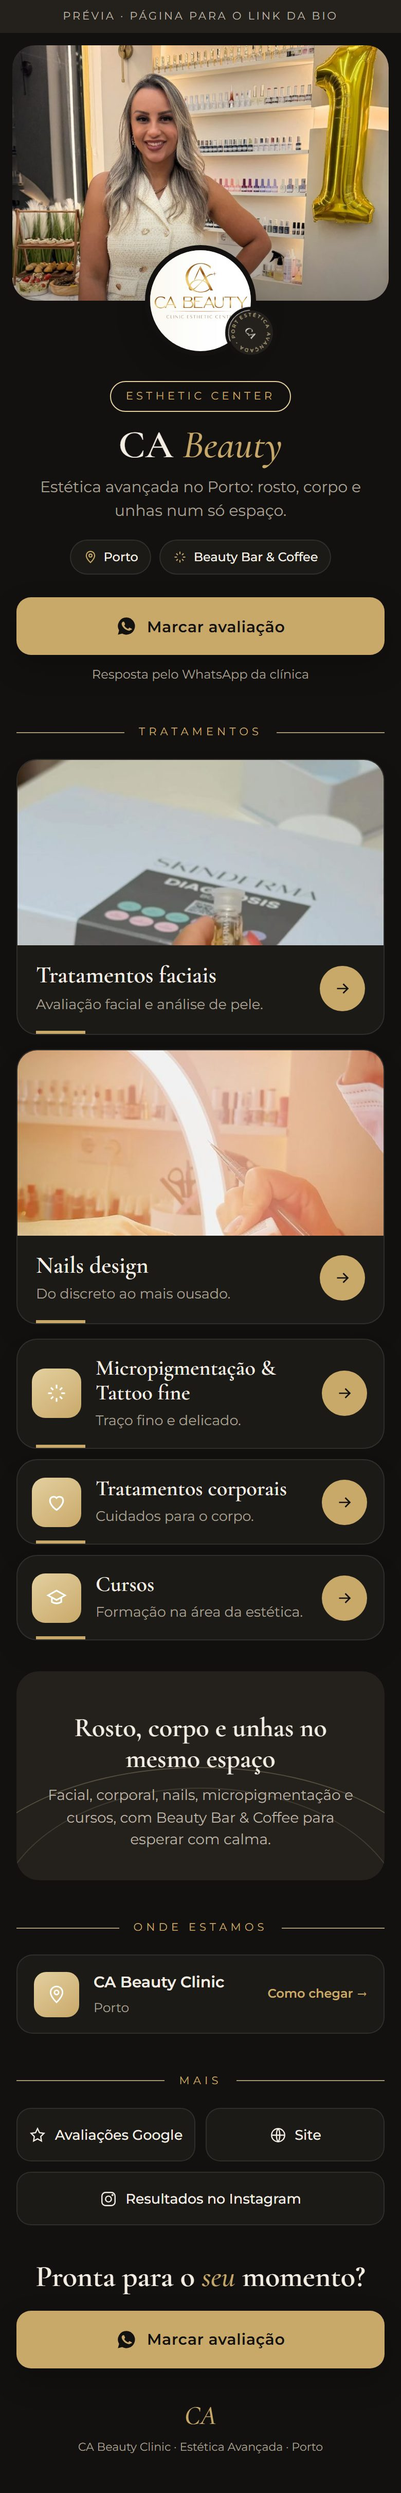
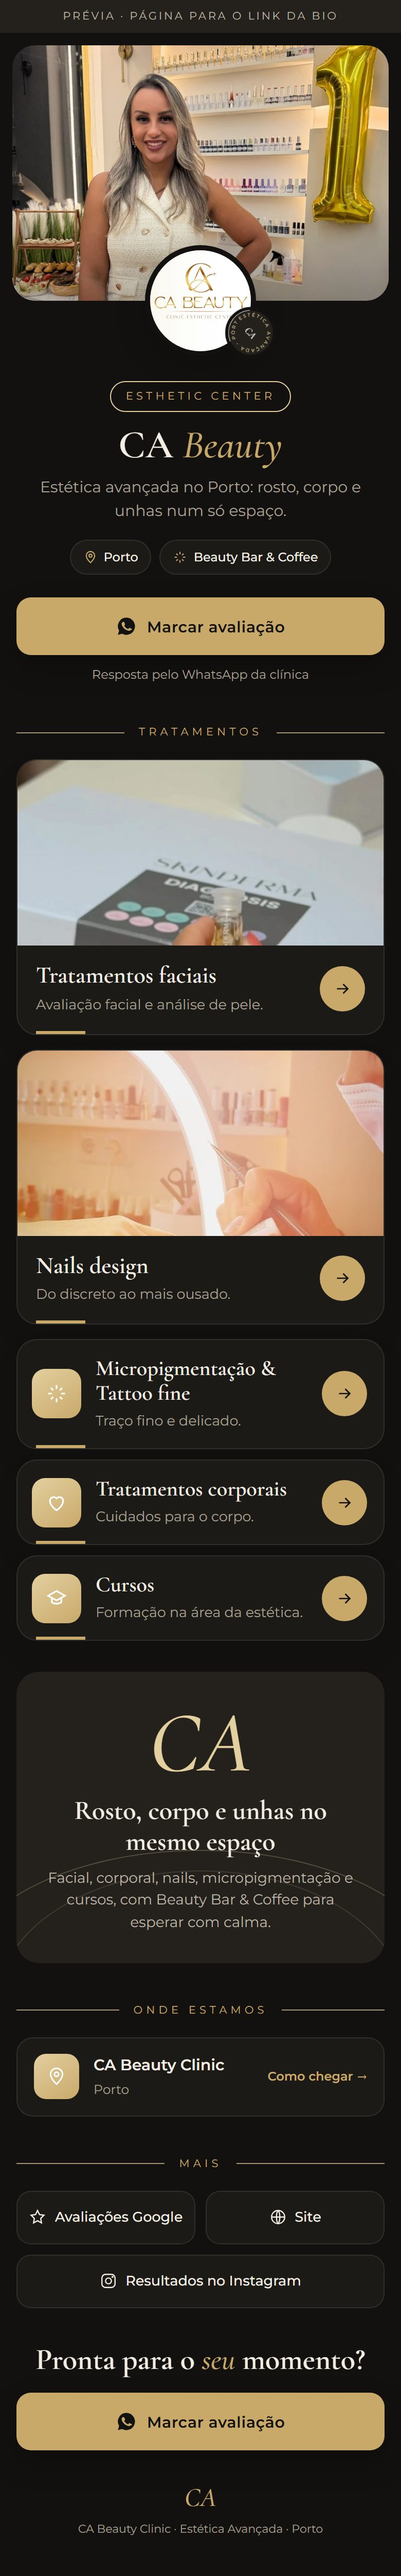
Bio: bloco de destaque com palavra grande

diff --git a/bio/lorraineportugal/index.html b/bio/lorraineportugal/index.html
@@ -55,7 +55,7 @@ h1 em{font-style:italic;font-weight:500;color:var(--acento)}
 .seta{flex:none;width:44px;height:44px;border-radius:50%;background:var(--btn);display:grid;place-items:center;margin-left:auto}
 .seta svg{width:18px;height:18px;stroke:var(--btn-txt);fill:none;stroke-width:1.8}
 .historia{margin:30px 16px 0;border-radius:22px;background:var(--escuro);color:var(--escuro-txt);padding:30px 24px 28px;position:relative;overflow:hidden;text-align:center}
-.historia .ano{font:italic 500 84px/.95 'Bodoni Moda',serif;color:var(--acento-2)}
+.historia .ano{font:italic 500 62px/.95 'Bodoni Moda',serif;color:var(--acento-2)}
 .historia h2{font:600 26px/1.15 'Bodoni Moda',serif;margin-top:10px}
 .historia p{font-size:14px;color:var(--escuro-suave);margin-top:10px}
 .historia .arco{position:absolute;inset:auto -60px -150px -60px;height:260px;border:1px solid var(--acento-2);opacity:.25;border-radius:50%}
@@ -95,7 +95,7 @@ footer .mono{font:italic 500 26px 'Bodoni Moda',serif;color:var(--acento);displa
 <a class="trat compacto" href="https://wa.me/5511916755953?text=Ol%C3%A1%2C%20Dra.%20Lorraine!%20Quero%20falar%20sobre%20partilha%20de%20bens." target="_blank" rel="noopener"><span class="tile"><svg viewBox="0 0 24 24"><path d="M12 3l7 3v6c0 4.5-3 7.8-7 9-4-1.2-7-4.5-7-9V6z"/><path d="M9 12l2 2 4-4"/></svg></span><div><h3>Partilha de bens</h3><p>Proteger o patrimônio que é seu.</p></div><span class="seta"><svg viewBox="0 0 24 24"><path d="M5 12h14M13 6l6 6-6 6"/></svg></span></a>
 <a class="trat compacto" href="https://wa.me/5511916755953?text=Ol%C3%A1%2C%20Dra.%20Lorraine!%20Quero%20falar%20sobre%20pens%C3%A3o." target="_blank" rel="noopener"><span class="tile"><svg viewBox="0 0 24 24"><path d="M12 20s-7-4.4-7-10a4 4 0 0 1 7-2.6A4 4 0 0 1 19 10c0 5.6-7 10-7 10z"/></svg></span><div><h3>Pensão e alimentos</h3><p>Inclusive alimentos gravídicos.</p></div><span class="seta"><svg viewBox="0 0 24 24"><path d="M5 12h14M13 6l6 6-6 6"/></svg></span></a>
 <a class="trat compacto" href="https://wa.me/5511916755953?text=Ol%C3%A1%2C%20Dra.%20Lorraine!%20Quero%20falar%20sobre%20a%20guarda%20dos%20meus%20filhos." target="_blank" rel="noopener"><span class="tile"><svg viewBox="0 0 24 24"><circle cx="9" cy="8" r="3.5"/><path d="M2.5 20c.8-3.6 3.4-5.5 6.5-5.5s5.7 1.9 6.5 5.5"/><path d="M16 4.5a3.5 3.5 0 0 1 0 7M18 14.8c1.9.6 3.1 2.3 3.5 5.2"/></svg></span><div><h3>Proteção dos filhos</h3><p>Guarda e convivência.</p></div><span class="seta"><svg viewBox="0 0 24 24"><path d="M5 12h14M13 6l6 6-6 6"/></svg></span></a></div>
-  <div class="historia"><h2>Divórcio e partilha para mulheres</h2><p>Para quem quer se separar protegendo os filhos e o patrimônio, inclusive quando depende financeiramente do parceiro.</p><div class="arco"></div><div class="arco b"></div></div>
+  <div class="historia"><div class="ano">Divórcio</div><h2>e partilha para mulheres</h2><p>Para quem quer se separar protegendo os filhos e o patrimônio, inclusive quando depende financeiramente do parceiro.</p><div class="arco"></div><div class="arco b"></div></div>
   
   <div class="sep">Mais</div><div class="bloco links"><a class="lk larga" href="https://www.instagram.com/lorraineportugal" target="_blank" rel="noopener"><svg viewBox="0 0 24 24"><rect x="3" y="3" width="18" height="18" rx="5"/><circle cx="12" cy="12" r="4"/><circle cx="17.5" cy="6.5" r=".6"/></svg>Conteúdos no Instagram</a></div>
   <div class="final"><h2>Seu recomeço, <em>protegido</em></h2><a class="btn btn-pri" href="https://wa.me/5511916755953?text=Ol%C3%A1%2C%20Dra.%20Lorraine!%20Gostaria%20de%20agendar%20uma%20consulta." target="_blank" rel="noopener"><svg viewBox="0 0 24 24" class="wa"><path d="M12 2a10 10 0 0 0-8.6 15.1L2 22l5-1.3A10 10 0 1 0 12 2zm5.3 14.1c-.2.6-1.3 1.2-1.8 1.2-.5.1-1 .1-3.3-.8-2.8-1.1-4.5-3.9-4.7-4.1-.1-.2-1.1-1.5-1.1-2.9s.7-2 1-2.3c.3-.3.6-.3.8-.3h.6c.2 0 .4 0 .6.5l.9 2.1c.1.2.1.4 0 .5l-.3.5-.4.5c-.1.1-.3.3-.1.6.2.3.8 1.3 1.7 2.1 1.2 1 2.1 1.3 2.4 1.5.3.1.5.1.6-.1l.9-1.1c.2-.3.4-.2.6-.1l2 1c.3.1.5.2.5.3.1.2.1.7-.1 1.4z"/></svg>Agendar consulta</a></div>

diff --git a/bio/beu-clinicportugal/index.html b/bio/beu-clinicportugal/index.html
@@ -55,7 +55,7 @@ h1 em{font-style:italic;font-weight:500;color:var(--acento)}
 .seta{flex:none;width:44px;height:44px;border-radius:50%;background:var(--btn);display:grid;place-items:center;margin-left:auto}
 .seta svg{width:18px;height:18px;stroke:var(--btn-txt);fill:none;stroke-width:1.8}
 .historia{margin:30px 16px 0;border-radius:22px;background:var(--escuro);color:var(--escuro-txt);padding:30px 24px 28px;position:relative;overflow:hidden;text-align:center}
-.historia .ano{font:italic 500 84px/.95 'DM Serif Display',serif;color:var(--acento-2)}
+.historia .ano{font:italic 500 72px/.95 'DM Serif Display',serif;color:var(--acento-2)}
 .historia h2{font:600 26px/1.15 'DM Serif Display',serif;margin-top:10px}
 .historia p{font-size:14px;color:var(--escuro-suave);margin-top:10px}
 .historia .arco{position:absolute;inset:auto -60px -150px -60px;height:260px;border:1px solid var(--acento-2);opacity:.25;border-radius:50%}
@@ -94,7 +94,7 @@ footer .mono{font:italic 500 26px 'DM Serif Display',serif;color:var(--acento);d
   <div class="bloco"><a class="trat" href="https://wa.me/351964578844?text=Ol%C3%A1!%20Gostaria%20de%20saber%20mais%20sobre%20Botox." target="_blank" rel="noopener"><div class="foto"><img src="img/post3.jpg" alt="Botox" style="object-position:center 30%"></div><div class="txt"><div><h3>Botox</h3><p>Expressão mais leve e natural.</p></div><span class="seta"><svg viewBox="0 0 24 24"><path d="M5 12h14M13 6l6 6-6 6"/></svg></span></div></a>
 <a class="trat" href="https://wa.me/351964578844?text=Ol%C3%A1!%20Gostaria%20de%20saber%20mais%20sobre%20preenchimentos." target="_blank" rel="noopener"><div class="foto"><img src="img/post10.jpg" alt="Preenchimentos" style="object-position:center 25%"></div><div class="txt"><div><h3>Preenchimentos</h3><p>Volume e contorno com equilíbrio.</p></div><span class="seta"><svg viewBox="0 0 24 24"><path d="M5 12h14M13 6l6 6-6 6"/></svg></span></div></a>
 <a class="trat" href="https://wa.me/351964578844?text=Ol%C3%A1!%20Gostaria%20de%20saber%20mais%20sobre%20os%20tratamentos%20faciais." target="_blank" rel="noopener"><div class="foto"><img src="img/post12.jpg" alt="Tratamentos faciais" style="object-position:center 35%"></div><div class="txt"><div><h3>Tratamentos faciais</h3><p>Luminosidade e hidratação da pele.</p></div><span class="seta"><svg viewBox="0 0 24 24"><path d="M5 12h14M13 6l6 6-6 6"/></svg></span></div></a></div>
-  <div class="historia"><div class="ano">2</div><h2>Clínicas, no Porto e em Lisboa</h2><p>Cada tratamento começa com uma avaliação médica do seu rosto.</p><div class="arco"></div><div class="arco b"></div></div>
+  <div class="historia"><div class="ano">Be'U</div><h2>Duas clínicas, no Porto e em Lisboa</h2><p>Cada tratamento começa com uma avaliação médica do seu rosto.</p><div class="arco"></div><div class="arco b"></div></div>
   <div class="sep">Onde estamos</div><div class="bloco"><a class="uni" href="https://www.google.com/maps/search/Be'U%20Clinic%20Rua%20de%20Costa%20Cabral%20501%20Porto" target="_blank" rel="noopener"><span class="ic"><svg viewBox="0 0 24 24"><path d="M12 21s-7-6.2-7-11.5A7 7 0 0 1 19 9.5C19 14.8 12 21 12 21z"/><circle cx="12" cy="9.5" r="2.5"/></svg></span><div><b>Porto</b><span>Rua de Costa Cabral, 501</span></div><span class="ir">Como chegar →</span></a>
 <a class="uni" href="https://www.google.com/maps/search/Be'U%20Clinic%20Lisboa" target="_blank" rel="noopener"><span class="ic"><svg viewBox="0 0 24 24"><path d="M12 21s-7-6.2-7-11.5A7 7 0 0 1 19 9.5C19 14.8 12 21 12 21z"/><circle cx="12" cy="9.5" r="2.5"/></svg></span><div><b>Lisboa</b><span>Be'U Clinic</span></div><span class="ir">Como chegar →</span></a></div>
   <div class="sep">Mais</div><div class="bloco links"><a class="lk" href="https://www.google.com/maps/search/Be'U+Clinic+Porto" target="_blank" rel="noopener"><svg viewBox="0 0 24 24"><path d="M12 3l2.7 5.6 6.1.9-4.4 4.3 1 6.1L12 17l-5.4 2.9 1-6.1L3.2 9.5l6.1-.9z"/></svg>Avaliações Google</a>

diff --git a/bio/molarclinic/index.html b/bio/molarclinic/index.html
@@ -55,7 +55,7 @@ h1 em{font-style:italic;font-weight:500;color:var(--acento)}
 .seta{flex:none;width:44px;height:44px;border-radius:50%;background:var(--btn);display:grid;place-items:center;margin-left:auto}
 .seta svg{width:18px;height:18px;stroke:var(--btn-txt);fill:none;stroke-width:1.8}
 .historia{margin:30px 16px 0;border-radius:22px;background:var(--escuro);color:var(--escuro-txt);padding:30px 24px 28px;position:relative;overflow:hidden;text-align:center}
-.historia .ano{font:italic 500 84px/.95 'DM Serif Display',serif;color:var(--acento-2)}
+.historia .ano{font:italic 500 72px/.95 'DM Serif Display',serif;color:var(--acento-2)}
 .historia h2{font:600 26px/1.15 'DM Serif Display',serif;margin-top:10px}
 .historia p{font-size:14px;color:var(--escuro-suave);margin-top:10px}
 .historia .arco{position:absolute;inset:auto -60px -150px -60px;height:260px;border:1px solid var(--acento-2);opacity:.25;border-radius:50%}
@@ -94,7 +94,7 @@ footer .mono{font:italic 500 26px 'DM Serif Display',serif;color:var(--acento);d
   <div class="bloco"><a class="trat" href="https://wa.me/351910818298?text=Ol%C3%A1!%20Gostaria%20de%20saber%20mais%20sobre%20implantes." target="_blank" rel="noopener"><div class="foto"><span class="tag">Caso real</span><img src="img/post3.jpg" alt="Implantes" style="object-position:center 40%"></div><div class="txt"><div><h3>Implantes</h3><p>Voltar a comer e a sorrir sem esconder a boca.</p></div><span class="seta"><svg viewBox="0 0 24 24"><path d="M5 12h14M13 6l6 6-6 6"/></svg></span></div></a>
 <a class="trat" href="https://wa.me/351910818298?text=Ol%C3%A1!%20Gostaria%20de%20saber%20mais%20sobre%20facetas." target="_blank" rel="noopener"><div class="foto"><span class="tag">Caso real</span><img src="img/post2.jpg" alt="Facetas" style="object-position:center 35%"></div><div class="txt"><div><h3>Facetas</h3><p>Forma e cor do sorriso, caso a caso.</p></div><span class="seta"><svg viewBox="0 0 24 24"><path d="M5 12h14M13 6l6 6-6 6"/></svg></span></div></a>
 <a class="trat compacto" href="https://wa.me/351910818298?text=Ol%C3%A1!%20Gostaria%20de%20saber%20mais%20sobre%20Invisalign." target="_blank" rel="noopener"><span class="tile"><svg viewBox="0 0 24 24"><path d="M7 3c-2 0-3.5 1.6-3.5 4 0 3 1.5 4.5 2 7 .6 3 1 7 2.5 7s1.6-4 4-4 2.5 4 4 4 1.9-4 2.5-7c.5-2.5 2-4 2-7 0-2.4-1.5-4-3.5-4-2 0-3 1-5 1s-3-1-5-1z"/></svg></span><div><h3>Invisalign</h3><p>Alinhar os dentes de forma discreta.</p></div><span class="seta"><svg viewBox="0 0 24 24"><path d="M5 12h14M13 6l6 6-6 6"/></svg></span></a></div>
-  <div class="historia"><h2>Casos que acompanhamos ao longo dos anos</h2><p>Implantes, facetas e Invisalign, com pacientes que continuam a visitar-nos depois do tratamento.</p><div class="arco"></div><div class="arco b"></div></div>
+  <div class="historia"><div class="ano">Molar</div><h2>Casos que acompanhamos ao longo dos anos</h2><p>Implantes, facetas e Invisalign, com pacientes que continuam a visitar-nos depois do tratamento.</p><div class="arco"></div><div class="arco b"></div></div>
   <div class="sep">Onde estamos</div><div class="bloco"><a class="uni" href="https://www.google.com/maps/search/Molar%20Clinic%20Porto" target="_blank" rel="noopener"><span class="ic"><svg viewBox="0 0 24 24"><path d="M12 21s-7-6.2-7-11.5A7 7 0 0 1 19 9.5C19 14.8 12 21 12 21z"/><circle cx="12" cy="9.5" r="2.5"/></svg></span><div><b>Molar Clinic</b><span>Junto ao Hospital de S. João</span></div><span class="ir">Como chegar →</span></a></div>
   <div class="sep">Mais</div><div class="bloco links"><a class="lk" href="tel:+351223217777" target="_blank" rel="noopener"><svg viewBox="0 0 24 24"><circle cx="12" cy="12" r="9"/><path d="M12 7v5l3 2"/></svg>Ligar 223 217 777</a>
 <a class="lk" href="http://www.molar.pt/" target="_blank" rel="noopener"><svg viewBox="0 0 24 24"><circle cx="12" cy="12" r="9"/><path d="M3 12h18M12 3c3 3.2 3 14.8 0 18M12 3c-3 3.2-3 14.8 0 18"/></svg>Site</a>

diff --git a/bio/romario-lisboa/index.html b/bio/romario-lisboa/index.html
@@ -55,7 +55,7 @@ h1 em{font-style:italic;font-weight:500;color:var(--acento)}
 .seta{flex:none;width:44px;height:44px;border-radius:50%;background:var(--btn);display:grid;place-items:center;margin-left:auto}
 .seta svg{width:18px;height:18px;stroke:var(--btn-txt);fill:none;stroke-width:1.8}
 .historia{margin:30px 16px 0;border-radius:22px;background:var(--escuro);color:var(--escuro-txt);padding:30px 24px 28px;position:relative;overflow:hidden;text-align:center}
-.historia .ano{font:italic 500 84px/.95 'Playfair Display',serif;color:var(--acento-2)}
+.historia .ano{font:italic 500 76px/.95 'Playfair Display',serif;color:var(--acento-2)}
 .historia h2{font:600 26px/1.15 'Playfair Display',serif;margin-top:10px}
 .historia p{font-size:14px;color:var(--escuro-suave);margin-top:10px}
 .historia .arco{position:absolute;inset:auto -60px -150px -60px;height:260px;border:1px solid var(--acento-2);opacity:.25;border-radius:50%}
@@ -95,7 +95,7 @@ footer .mono{font:italic 500 26px 'Playfair Display',serif;color:var(--acento);d
 <a class="trat compacto" href="https://wa.me/5598984755533?text=Ol%C3%A1%2C%20Dr.%20Rom%C3%A1rio!%20Quero%20falar%20sobre%20INSS%20%2F%20benef%C3%ADcio." target="_blank" rel="noopener"><span class="tile"><svg viewBox="0 0 24 24"><path d="M12 3l7 3v6c0 4.5-3 7.8-7 9-4-1.2-7-4.5-7-9V6z"/><path d="M9 12l2 2 4-4"/></svg></span><div><h3>Previdenciário</h3><p>INSS, Atestmed e benefícios.</p></div><span class="seta"><svg viewBox="0 0 24 24"><path d="M5 12h14M13 6l6 6-6 6"/></svg></span></a>
 <a class="trat compacto" href="https://wa.me/5598984755533?text=Ol%C3%A1%2C%20Dr.%20Rom%C3%A1rio!%20Quero%20uma%20orienta%C3%A7%C3%A3o%20sobre%20direito%20civil." target="_blank" rel="noopener"><span class="tile"><svg viewBox="0 0 24 24"><path d="M3 9l9-5 9 5-9 5z"/><path d="M7 11v5c3 2 7 2 10 0v-5"/></svg></span><div><h3>Direito Civil</h3><p>Orientação e ações cíveis.</p></div><span class="seta"><svg viewBox="0 0 24 24"><path d="M5 12h14M13 6l6 6-6 6"/></svg></span></a>
 <a class="trat compacto" href="https://wa.me/5598984755533?text=Ol%C3%A1%2C%20Dr.%20Rom%C3%A1rio!%20Sou%20da%20enfermagem%20e%20quero%20falar%20sobre%20os%20direitos%20da%20categoria." target="_blank" rel="noopener"><span class="tile"><svg viewBox="0 0 24 24"><circle cx="9" cy="8" r="3.5"/><path d="M2.5 20c.8-3.6 3.4-5.5 6.5-5.5s5.7 1.9 6.5 5.5"/><path d="M16 4.5a3.5 3.5 0 0 1 0 7M18 14.8c1.9.6 3.1 2.3 3.5 5.2"/></svg></span><div><h3>Sindicatos</h3><p>Advogado do Sindsaúde, Sintaema, Sinfarma, Senalba e Sinsepma.</p></div><span class="seta"><svg viewBox="0 0 24 24"><path d="M5 12h14M13 6l6 6-6 6"/></svg></span></a></div>
-  <div class="historia"><h2>Advogado e enfermeiro</h2><p>Conhece por dentro a rotina da enfermagem e atende os sindicatos da saúde: Sindsaúde, Sintaema, Sinfarma, Senalba e Sinsepma.</p><div class="arco"></div><div class="arco b"></div></div>
+  <div class="historia"><div class="ano">ALP</div><h2>Advogado e enfermeiro</h2><p>Conhece por dentro a rotina da enfermagem e atende os sindicatos da saúde: Sindsaúde, Sintaema, Sinfarma, Senalba e Sinsepma.</p><div class="arco"></div><div class="arco b"></div></div>
   
   <div class="sep">Mais</div><div class="bloco links"><a class="lk" href="https://www.instagram.com/alpadvogadosassociados" target="_blank" rel="noopener"><svg viewBox="0 0 24 24"><rect x="3" y="3" width="18" height="18" rx="5"/><circle cx="12" cy="12" r="4"/><circle cx="17.5" cy="6.5" r=".6"/></svg>@alpadvogadosassociados</a>
 <a class="lk" href="https://www.instagram.com/romario_lisboa" target="_blank" rel="noopener"><svg viewBox="0 0 24 24"><rect x="3" y="3" width="18" height="18" rx="5"/><circle cx="12" cy="12" r="4"/><circle cx="17.5" cy="6.5" r=".6"/></svg>Instagram</a></div>

diff --git a/bio/cabeautyclinic-pt/index.html b/bio/cabeautyclinic-pt/index.html
@@ -96,7 +96,7 @@ footer .mono{font:italic 500 26px 'Cormorant Garamond',serif;color:var(--acento)
 <a class="trat compacto" href="https://wa.me/351934116410?text=Ol%C3%A1!%20Gostaria%20de%20saber%20mais%20sobre%20micropigmenta%C3%A7%C3%A3o." target="_blank" rel="noopener"><span class="tile"><svg viewBox="0 0 24 24"><path d="M12 3v4M12 17v4M3 12h4M17 12h4M6 6l2.5 2.5M15.5 15.5L18 18M6 18l2.5-2.5M15.5 8.5L18 6"/></svg></span><div><h3>Micropigmentação &amp; Tattoo fine</h3><p>Traço fino e delicado.</p></div><span class="seta"><svg viewBox="0 0 24 24"><path d="M5 12h14M13 6l6 6-6 6"/></svg></span></a>
 <a class="trat compacto" href="https://wa.me/351934116410?text=Ol%C3%A1!%20Gostaria%20de%20saber%20mais%20sobre%20os%20tratamentos%20corporais." target="_blank" rel="noopener"><span class="tile"><svg viewBox="0 0 24 24"><path d="M12 20s-7-4.4-7-10a4 4 0 0 1 7-2.6A4 4 0 0 1 19 10c0 5.6-7 10-7 10z"/></svg></span><div><h3>Tratamentos corporais</h3><p>Cuidados para o corpo.</p></div><span class="seta"><svg viewBox="0 0 24 24"><path d="M5 12h14M13 6l6 6-6 6"/></svg></span></a>
 <a class="trat compacto" href="https://wa.me/351934116410?text=Ol%C3%A1!%20Gostaria%20de%20saber%20mais%20sobre%20os%20cursos." target="_blank" rel="noopener"><span class="tile"><svg viewBox="0 0 24 24"><path d="M3 9l9-5 9 5-9 5z"/><path d="M7 11v5c3 2 7 2 10 0v-5"/></svg></span><div><h3>Cursos</h3><p>Formação na área da estética.</p></div><span class="seta"><svg viewBox="0 0 24 24"><path d="M5 12h14M13 6l6 6-6 6"/></svg></span></a></div>
-  <div class="historia"><h2>Rosto, corpo e unhas no mesmo espaço</h2><p>Facial, corporal, nails, micropigmentação e cursos, com Beauty Bar &amp; Coffee para esperar com calma.</p><div class="arco"></div><div class="arco b"></div></div>
+  <div class="historia"><div class="ano">CA</div><h2>Rosto, corpo e unhas no mesmo espaço</h2><p>Facial, corporal, nails, micropigmentação e cursos, com Beauty Bar &amp; Coffee para esperar com calma.</p><div class="arco"></div><div class="arco b"></div></div>
   <div class="sep">Onde estamos</div><div class="bloco"><a class="uni" href="https://www.google.com/maps/search/CA%20Beauty%20Clinic%20Porto" target="_blank" rel="noopener"><span class="ic"><svg viewBox="0 0 24 24"><path d="M12 21s-7-6.2-7-11.5A7 7 0 0 1 19 9.5C19 14.8 12 21 12 21z"/><circle cx="12" cy="9.5" r="2.5"/></svg></span><div><b>CA Beauty Clinic</b><span>Porto</span></div><span class="ir">Como chegar →</span></a></div>
   <div class="sep">Mais</div><div class="bloco links"><a class="lk" href="https://www.google.com/maps/search/CA+Beauty+Clinic+Porto" target="_blank" rel="noopener"><svg viewBox="0 0 24 24"><path d="M12 3l2.7 5.6 6.1.9-4.4 4.3 1 6.1L12 17l-5.4 2.9 1-6.1L3.2 9.5l6.1-.9z"/></svg>Avaliações Google</a>
 <a class="lk" href="https://cabeautyclinic.com/" target="_blank" rel="noopener"><svg viewBox="0 0 24 24"><circle cx="12" cy="12" r="9"/><path d="M3 12h18M12 3c3 3.2 3 14.8 0 18M12 3c-3 3.2-3 14.8 0 18"/></svg>Site</a>
